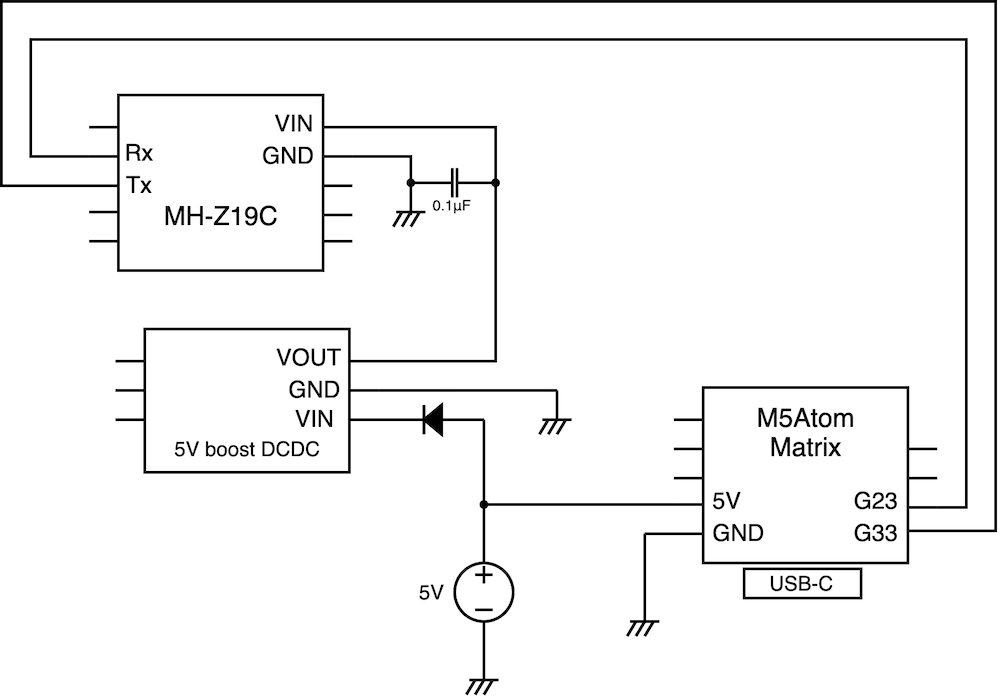
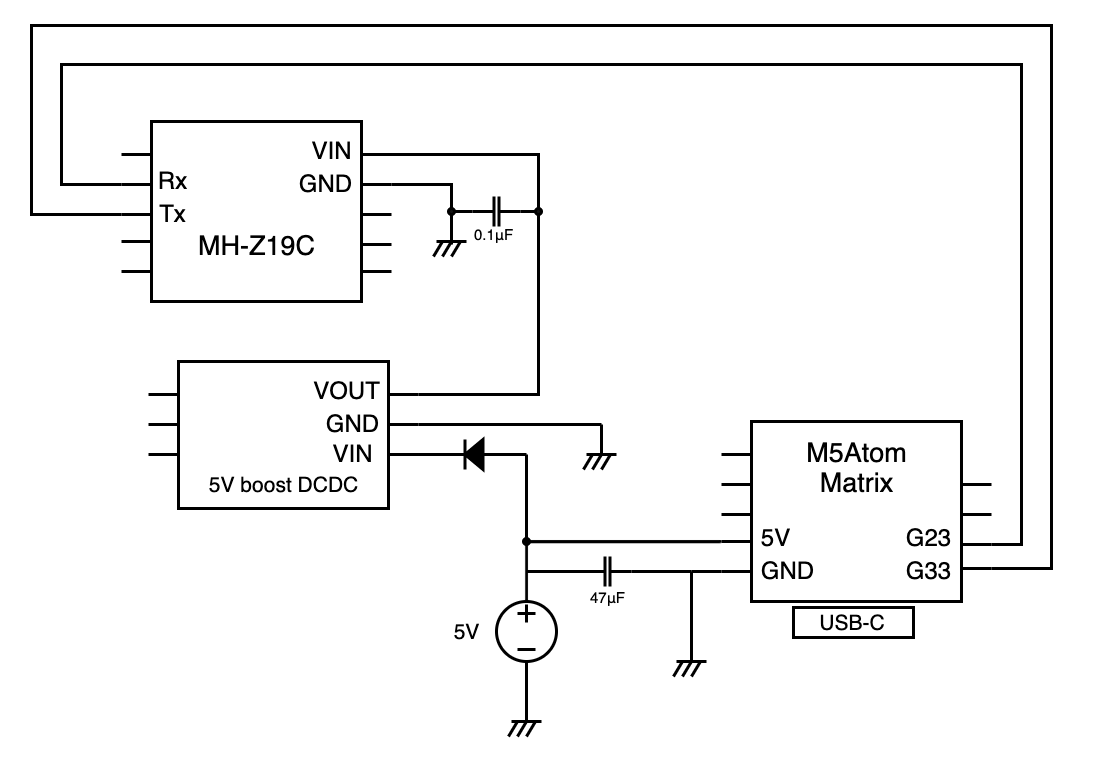
Add circuit diagram

Changed region(s): [[0.0, 0.0, 1.0, 1.0]]

diff --git a/README.md b/README.md
@@ -34,7 +34,8 @@ Because Octocat is the most beloved mascot of programmers in the world. I think.
 - CO2 Sensor MH-Z19C
 - 5V output DCDC boost converter
 - Diode 1S2076A
-- Ceramic capacitors 0.1uF
+- Electrolytic capacitor 47uF
+- Ceramic capacitor 0.1uF
 - DC jack (if needed)
 
 
